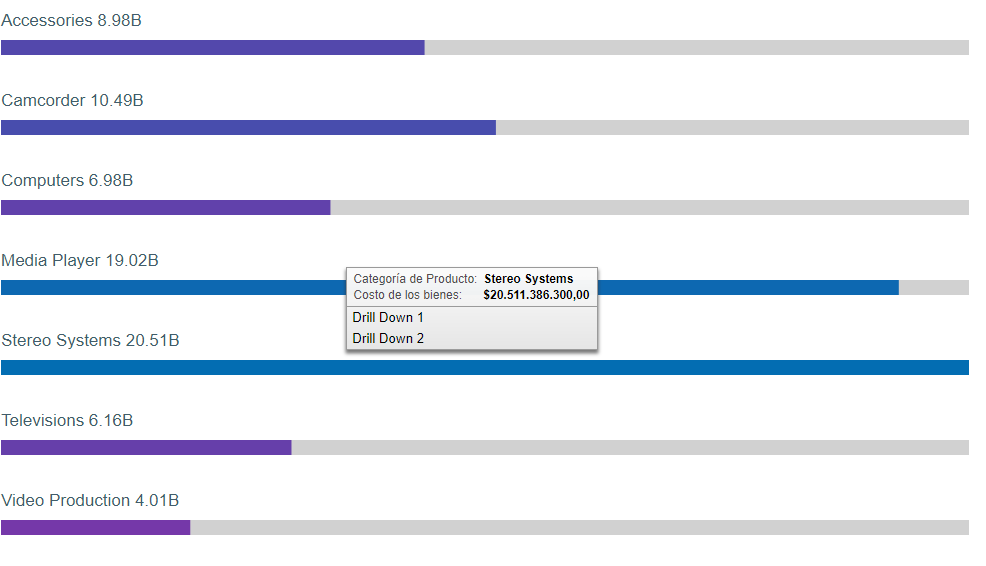
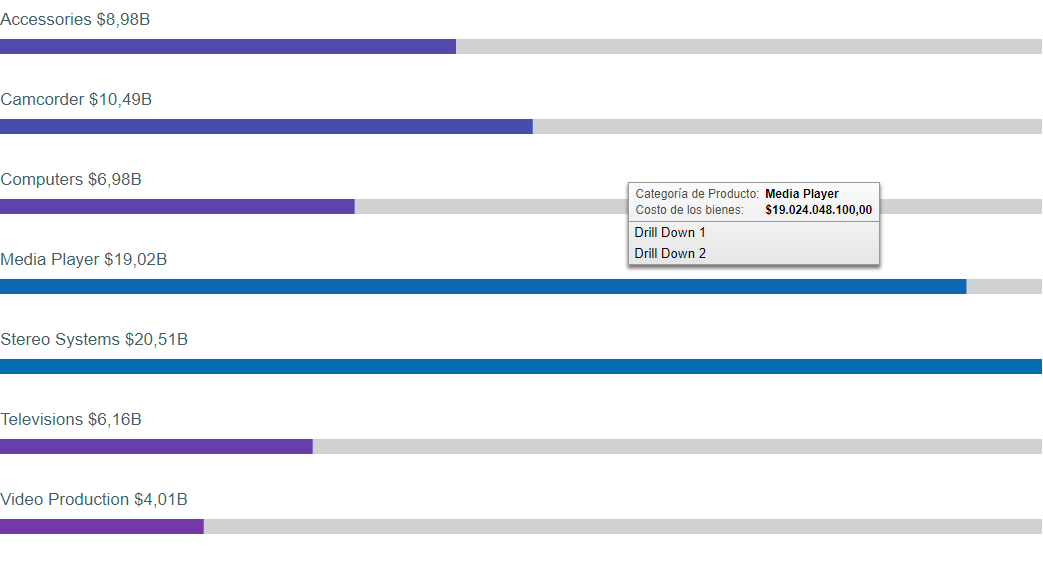
Show formatted value in Bar's Title

diff --git a/com.ibi.kpi_distribution/chart/chart.js b/com.ibi.kpi_distribution/chart/chart.js
@@ -48,6 +48,8 @@
 					return drillClass;
 				});
 
+		var valueFormat = $ib3.config.getFormatByBucketName('value', 0);
+		
 		groups.append('text')
 			.attr('class', 'title')
 			.attr('fill', textColor)
@@ -57,8 +59,25 @@
 				return i * distributionHeight + marginTop;
 			})
 			.text(function(d) { 
+				var number;
+				
+				var abbr = $ib3.utils.getNumericAbbreviation(d.value),
+					shortenNumber = $ib3.utils.getShortenNumberByAbbreviation(d.value, abbr),
+					valueFormatApplied = valueFormat;
+					
+				var lastCharValueFormat = valueFormatApplied.substring(valueFormatApplied.length - 1);
+				if(lastCharValueFormat == '%') {
+					valueFormatApplied += abbr;								
+				} else if(lastCharValueFormat == '€') {
+					valueFormatApplied = valueFormatApplied.substring(0, valueFormatApplied.length - 2) + abbr + lastCharValueFormat;
+				} else {
+					valueFormatApplied += abbr;
+				}
+				
+				$ib3.config.formatNumber(shortenNumber, valueFormatApplied); 
+							
 				return d.dimension + '   ' +
-					$ib3.utils.setShortenNumber(d.value, false, 2);
+					$ib3.config.formatNumber(shortenNumber, valueFormatApplied);
 			});
 
 		groups.append('rect')
